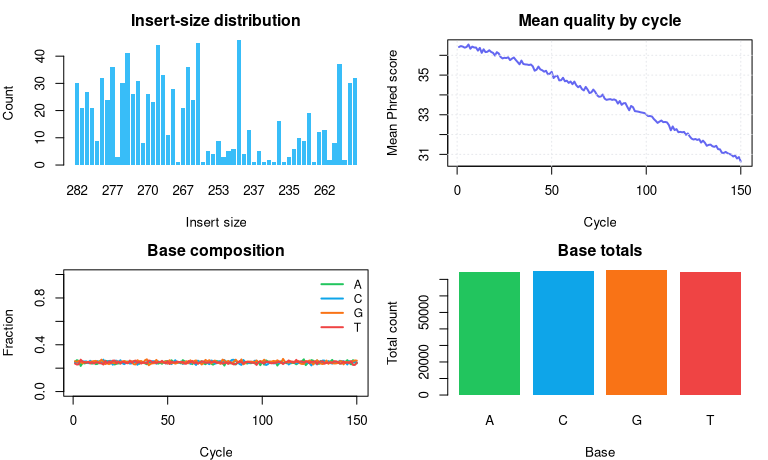
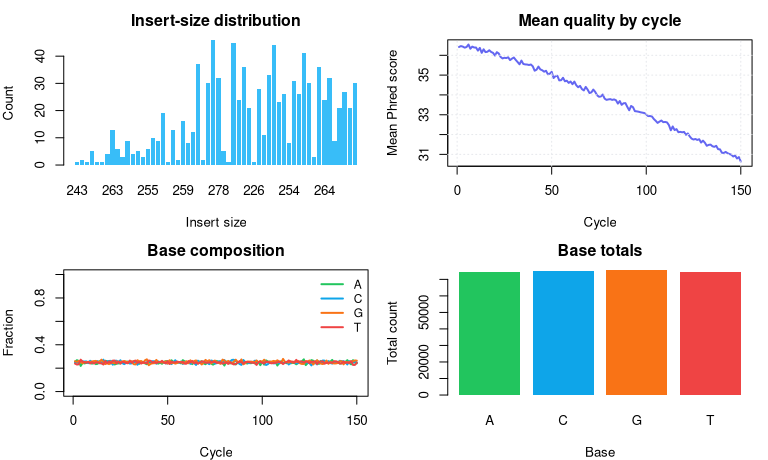
.

diff --git a/README.md b/README.md
@@ -329,7 +329,8 @@ controls how data is decoded and encoded.
   block-compressed format layered on top of bundled zstd so it is both
   more storage-efficient and faster to stream than textual FASTQ.
 - `.mem` - In-memory `.fraq` (read/write). Lifetime is limited to the
-  current R session.
+  current R session. `.mem` values are exact in-memory keys, not
+  filesystem paths, so they are not normalized or expanded.
 - `.fifo` - POSIX named pipes on Linux/macOS (read/write). Useful for
   streaming data between CLI programs.
 
@@ -356,9 +357,14 @@ path, described below.
 
 You can build a custom kernel with `fraq_run_r()`. The R function runs
 on the main R thread rather than inside a TBB graph node, so it is safe
-for it to work with R objects and call back into R. IO happens o
-background threads (determined by `io_threads`) while the R kernel stays
-on the main R thread.
+for it to work with R objects and call back into R. When `nthreads > 1`,
+IO happens on background threads while the R kernel stays on the main R
+thread. When `nthreads = 1`, or when fraq detects that it is running
+inside a forked R process, fraq uses a serial path that does not
+construct a TBB graph.
+
+Blocks are delivered to the R kernel in increasing block-index order,
+and the `index` vector within each call is increasing.
 
 An R kernel is called as `kernel(reads, index)`:
 
@@ -371,8 +377,9 @@ An R kernel is called as `kernel(reads, index)`:
   or joining back to external metadata.
 - Return `NULL` to drop the whole block.
 - Return a named list of data frames to write reads. Each list name is
-  an output path, and each data frame must contain `name`, `seq`, and
-  `qual` columns.
+  an output path or `.mem` key, and each data frame must contain `name`,
+  `seq`, and `qual` columns. Output paths returned by an R kernel are
+  normalized by the R wrapper; `.mem` keys are used exactly as returned.
 
 Vectorized R kernels can still perform well on large FASTQ datasets
 because they operate on full blocks rather than one read at a time.
@@ -395,7 +402,7 @@ even_read_kernel <- function(reads, index) {
 fraq_run_r(
     input_paths,
     even_read_kernel,
-    io_threads = 2L
+    nthreads = 2L
 )
 ```
 
@@ -519,10 +526,10 @@ fraq_options("zstd_compress_level", 6L)
 fraq_options("gzip_compress_level", 4L)
 ```
 
-Most kernels accept `nthreads`. Internally, fraq caps the TBB scheduler
-to the requested parallelism. `fraq_run_r()` uses `io_threads` instead
-because the R kernel itself runs on the main R thread; the setting only
-controls background read, join, compression, and write work.
+Most kernels accept `nthreads`. With `nthreads = 1`, fraq uses a serial
+path. With `nthreads > 1`, fraq caps the TBB scheduler to the requested
+parallelism. If fraq detects that it is running inside a forked R
+process, it forces `nthreads = 1` to avoid using TBB after `fork()`.
 
 ## FRAQ file format
 
